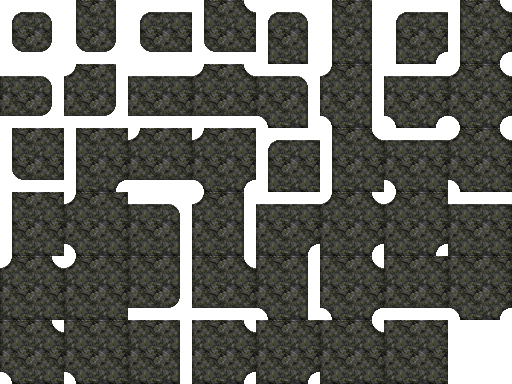
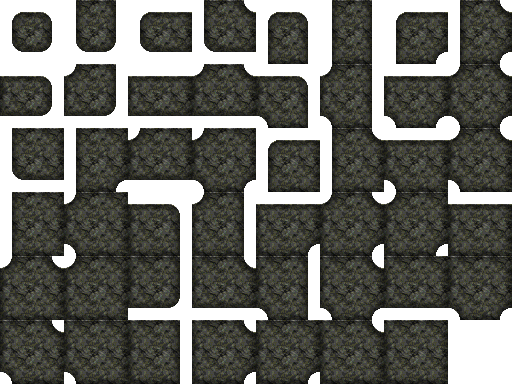
Apply remaining changes

diff --git a/scripts/sprites/terrain-packs/wall-relief.ts b/scripts/sprites/terrain-packs/wall-relief.ts
@@ -1,0 +1,116 @@
+/**
+ * Build four mask-aware wall-face overlays from a pack's own wall material.
+ *
+ * The base blob47 atlas provides topology, but a texture clipped to that shape
+ * can still read as a flat rug. These motifs add authored, directional
+ * highlight/shadow pairs: raised courses, recessed seams, broken ledges and
+ * inset faces. The geometry is deterministic; the colour and grain come from
+ * the pack's real wall material.
+ */
+import { TERRAIN_PACK_CELL_PX } from '../../../src/shared/terrain-pack-types.js';
+import { buildWallAccentAtlas } from './wall-accent-tools.js';
+import { createImage, type RgbaImage } from './png-buffer.js';
+
+export const WALL_RELIEF_IDS = [
+  'raised-course',
+  'recessed-seam',
+  'broken-ledge',
+  'inset-face',
+] as const;
+
+export interface WallReliefAtlas {
+  readonly id: (typeof WALL_RELIEF_IDS)[number];
+  readonly image: RgbaImage;
+}
+
+function clamp8(value: number): number {
+  return Math.max(0, Math.min(255, Math.round(value)));
+}
+
+function sample(material: RgbaImage, x: number, y: number): readonly [number, number, number] {
+  const sx = ((x % material.width) + material.width) % material.width;
+  const sy = ((y % material.height) + material.height) % material.height;
+  const offset = (sy * material.width + sx) * 4;
+  return [
+    material.data[offset] ?? 0,
+    material.data[offset + 1] ?? 0,
+    material.data[offset + 2] ?? 0,
+  ];
+}
+
+/**
+ * A long segmented run keeps the relief natural while still reading as a
+ * coherent wall course. Every variant shifts the joins so adjacent accented
+ * tiles do not repeat the same silhouette.
+ */
+function inSegment(along: number, shift: number): boolean {
+  const local = (along + shift + 64) % 28;
+  return local < 17;
+}
+
+function reliefTone(
+  variant: number,
+  x: number,
+  y: number,
+): { readonly shade: number; readonly opaque: boolean } {
+  const shift = variant * 5;
+
+  const north = y >= 15 && y <= 19 && inSegment(x, shift);
+  const south = y >= 44 && y <= 48 && inSegment(x, shift + 9);
+  const west = x >= 15 && x <= 19 && inSegment(y, shift + 4);
+  const east = x >= 44 && x <= 48 && inSegment(y, shift + 13);
+
+  // Broad central faces are deliberately asymmetric and staggered. They make
+  // most overlay pixels belong to wall interiors rather than merely tracing
+  // the silhouette, which is what creates visible wall-to-floor layering.
+  const upperFace =
+    x >= 5 + variant &&
+    x <= 29 + variant &&
+    y >= 3 + (variant % 2) * 3 &&
+    y <= 11 + (variant % 2) * 3;
+  const middleFace = x >= 23 - variant && x <= 42 + variant && y >= 25 && y <= 39;
+  const lowerFace =
+    x >= 34 - variant &&
+    x <= 59 - variant &&
+    y >= 52 - (variant % 2) * 2 &&
+    y <= 60 - (variant % 2) * 2;
+
+  if (!(north || south || west || east || upperFace || middleFace || lowerFace)) {
+    return { shade: 0, opaque: false };
+  }
+
+  let shade = -18;
+  if (north) shade = y <= 16 ? 38 : -34;
+  else if (south) shade = y <= 45 ? 28 : -42;
+  else if (west) shade = x <= 16 ? 30 : -36;
+  else if (east) shade = x <= 45 ? 22 : -44;
+  else if (upperFace) shade = y <= 5 + (variant % 2) * 3 ? 34 : -20;
+  else if (middleFace) shade = y <= 27 ? 28 : y >= 37 ? -38 : -8;
+  else if (lowerFace) shade = y <= 54 - (variant % 2) * 2 ? 24 : -34;
+
+  // Pixel-scale chipping prevents the broad faces from becoming sterile bars.
+  shade += ((x * 7 + y * 11 + variant * 13) % 9) - 4;
+  return { shade, opaque: true };
+}
+
+export function buildWallReliefAtlases(
+  wallMaterial: RgbaImage,
+  wallAtlas: RgbaImage,
+): readonly WallReliefAtlas[] {
+  return WALL_RELIEF_IDS.map((id, variant) => {
+    const motif = createImage(TERRAIN_PACK_CELL_PX, TERRAIN_PACK_CELL_PX);
+    for (let y = 0; y < TERRAIN_PACK_CELL_PX; y += 1) {
+      for (let x = 0; x < TERRAIN_PACK_CELL_PX; x += 1) {
+        const tone = reliefTone(variant, x, y);
+        if (!tone.opaque) continue;
+        const [r, g, b] = sample(wallMaterial, x + variant * 7, y + variant * 11);
+        const offset = (y * TERRAIN_PACK_CELL_PX + x) * 4;
+        motif.data[offset] = clamp8(r + tone.shade);
+        motif.data[offset + 1] = clamp8(g + tone.shade);
+        motif.data[offset + 2] = clamp8(b + tone.shade);
+        motif.data[offset + 3] = 255;
+      }
+    }
+    return { id, image: buildWallAccentAtlas(motif, wallAtlas) };
+  });
+}

diff --git a/scripts/sprites/terrain-packs/gen/materials.ts b/scripts/sprites/terrain-packs/gen/materials.ts
@@ -9,8 +9,9 @@
  * Prompt rules learned the hard way and encoded here:
  *  - always say "seamless tileable" AND "no border/frame/vignette" — generators
  *    love to add a decorative edge that destroys tiling;
- *  - always say "top-down orthographic, flat even lighting, no cast shadows" —
- *    baked directional light makes neighbouring cells disagree;
+ *  - request raised surface structure while keeping lighting even; directional
+ *    wall-face lighting is applied by the deterministic compositor so seams
+ *    still agree;
  *  - always say "no objects, no props, no text" — a barrel baked into the
  *    material repeats across the whole floor.
  */
@@ -51,8 +52,8 @@ const ACCENT_FLOOR_TILE: MaterialTileOptions = {
 };
 
 const SHARED_STYLE =
-  'seamless tileable texture, top-down orthographic view, flat even lighting, ' +
-  'no cast shadows, no directional highlight, no border, no frame, no vignette, ' +
+  'seamless tileable pixel-art texture, top-down orthographic view with chunky ' +
+  'readable surface relief, even ambient lighting, no cast shadows, no border, no frame, no vignette, ' +
   'no objects, no props, no characters, no text, no watermark, ' +
   'edge-to-edge repeating pattern, muted desaturated palette, dark fantasy dungeon crawler game texture';
 
@@ -75,26 +76,26 @@ export const FLOOR1_DUNGEON_SPEC: PackGenSpec = {
   name: 'Floor 1 Dungeon',
   includeSpecialFloorPools: true,
   wall: {
-    cacheKey: 'floor1-dungeon-wall',
+    cacheKey: 'floor1-dungeon-wall-depth-v2',
     prompt:
       'Ancient mortared dungeon masonry wall of rough-cut grey granite blocks with ' +
-      'crumbling pale mortar joints and faint moss in the cracks. ' +
+      'crumbling pale mortar joints, chipped raised block faces, deep recessed seams, and faint moss in the cracks. ' +
       SHARED_STYLE,
     tile: WALL_TILE,
   },
   floor: {
-    cacheKey: 'floor1-dungeon-floor',
+    cacheKey: 'floor1-dungeon-floor-depth-v2',
     prompt:
       'Worn dungeon flagstone floor of irregular grey-brown paving slabs with ' +
-      'grit-filled seams, small chips and scuff marks. ' +
+      'grit-filled recessed seams, bevelled slab edges, small chips and scuff marks. ' +
       SHARED_STYLE,
     tile: FLOOR_TILE,
   },
   corridor: {
-    cacheKey: 'floor1-dungeon-corridor',
+    cacheKey: 'floor1-dungeon-corridor-depth-v2',
     prompt:
       'Narrow dungeon corridor floor of tightly fitted cold grey stone slabs, ' +
-      'darker and damper than a room floor, with a faint worn walking path. ' +
+      'darker and damper than a room floor, with shallow side gutters and a raised worn walking path. ' +
       SHARED_STYLE,
     tile: FLOOR_TILE,
   },
@@ -104,26 +105,26 @@ export const FLOOR1_CAVE_SPEC: PackGenSpec = {
   id: 'floor1-cave',
   name: 'Floor 1 Cave',
   wall: {
-    cacheKey: 'floor1-cave-wall',
+    cacheKey: 'floor1-cave-wall-depth-v2',
     prompt:
       'Rough natural cave rock wall, jagged unhewn limestone with mineral veining, ' +
-      'pitted and uneven, damp dark stone. ' +
+      'pitted and uneven, with large projecting ledges, deep crevices and damp dark stone. ' +
       SHARED_STYLE,
     tile: WALL_TILE,
   },
   floor: {
-    cacheKey: 'floor1-cave-floor',
+    cacheKey: 'floor1-cave-floor-depth-v2',
     prompt:
       'Damp cave floor of packed earth, loose gravel and scattered small stones, ' +
-      'brown and grey, uneven natural ground. ' +
+      'brown and grey, uneven natural ground with shallow depressions and raised stone edges. ' +
       SHARED_STYLE,
     tile: FLOOR_TILE,
   },
   corridor: {
-    cacheKey: 'floor1-cave-corridor',
+    cacheKey: 'floor1-cave-corridor-depth-v2',
     prompt:
       'Narrow cave passage floor of wet bedrock and fine gravel, darker and ' +
-      'smoother than open cave ground. ' +
+      'smoother than open cave ground, with worn raised bedrock shelves along the passage. ' +
       SHARED_STYLE,
     tile: FLOOR_TILE,
   },

diff --git a/scripts/sprites/terrain-packs/build-companion-overworld.ts b/scripts/sprites/terrain-packs/build-companion-overworld.ts
@@ -39,6 +39,7 @@ import { composeWallAtlas } from './gen/compose-pack.js';
 import { createImage, encodePng, type RgbaImage } from './png-buffer.js';
 import { renderSpeckledSurface, type SurfacePalette } from './procedural-surfaces.js';
 import { deriveAllowedTransforms } from './transform-eligibility.js';
+import { buildWallReliefAtlases } from './wall-relief.js';
 
 export const COMPANION_OVERWORLD_PACK_ID = 'companion-overworld' as const;
 
@@ -95,9 +96,9 @@ const CORRIDOR_PALETTES: readonly SurfaceSpec[] = [
  * shading, so this stays a flat, bright material tile.
  */
 const WALL_PALETTE: SurfacePalette = {
-  base: [138, 142, 116, 255],
-  speckle: [112, 132, 88, 255],
-  speckleDensity: 0.22,
+  base: [150, 154, 116, 255],
+  speckle: [86, 116, 72, 255],
+  speckleDensity: 0.28,
 };
 
 /**
@@ -159,6 +160,15 @@ export function buildCompanionOverworldPack(): CompanionOverworldBuildResult {
   // Durable rebuild input (same convention as industrial-cave/floor1). Not
   // referenced by the manifest — it is a build input, not a runtime asset.
   files.push({ relativePath: `${PACK_DIR}/wall-material.png`, buffer: encodePng(wallTile) });
+  const wallAccents = buildWallReliefAtlases(wallTile, atlas).map(({ id, image }) => {
+    const relPath = `${PACK_DIR}/accent-${id}.png`;
+    files.push({ relativePath: relPath, buffer: encodePng(image) });
+    return {
+      id,
+      imagePath: relPath,
+      textureKey: `terrain-pack-${COMPANION_OVERWORLD_PACK_ID}-accent-${id}`,
+    };
+  });
 
   // --- Floor / corridor pools ----------------------------------------------
   function buildPool(kind: 'floor' | 'corridor', specs: readonly SurfaceSpec[]) {
@@ -205,7 +215,9 @@ export function buildCompanionOverworldPack(): CompanionOverworldBuildResult {
         'SeededRandom, and composed onto the canonical 20-quadrant blob47 wall silhouettes via ' +
         'composeWallAtlas (scripts/sprites/terrain-packs/gen/compose-pack.ts). Fully ' +
         'reproducible and byte-identical: run `npm run terrain-packs:build`. Palette is a ' +
-        'bright sunlit grass/dirt overworld for the Floor 3 Companion League brief. Pools are ' +
+        'bright sunlit grass/dirt overworld for the Floor 3 Companion League brief. Four ' +
+        'deterministic mask-aware raised-face overlays add visible wall ledges and recessed ' +
+        'courses instead of a flat top-down rock stamp. Pools are ' +
         'weighted 10:8:1x6 (grass base : quiet grass : sparse detail) so ground reads as ' +
         'continuous grassland with occasional punctuation rather than a uniform patchwork.',
     },
@@ -217,6 +229,7 @@ export function buildCompanionOverworldPack(): CompanionOverworldBuildResult {
       gridRows: ATLAS_GRID_ROWS,
       masks: masks.map(({ maskId, frameIndex }) => ({ maskId, frameIndex })),
     },
+    wallAccents,
     floorPool,
     corridorPool,
   };

diff --git a/tests/unit/sprites/terrain-pack-committed.test.ts b/tests/unit/sprites/terrain-pack-committed.test.ts
@@ -690,28 +690,34 @@ describe('validateTerrainDepthAndPerspective', () => {
     expect(result.issues).toHaveLength(0);
   });
 
-  it('Floor 1 (floor1-dungeon, floor1-cave) fails the depth check for flat top-down tiles', () => {
+  it('Floor 1 (floor1-dungeon, floor1-cave) passes the depth check with regenerated wall relief', () => {
     for (const id of ['floor1-dungeon', 'floor1-cave'] as const) {
       const pack = getTerrainPack(id);
+      const accentAtlases = pack.wallAccents!.map((accent) =>
+        decodePng(readFileSync(path.join(repoRoot(), 'public', accent.imagePath))),
+      );
       const result = validateTerrainDepthAndPerspective(
         pack,
         decodePng(readFileSync(path.join(repoRoot(), 'public', pack.wallAutotile.imagePath))),
-        [],
+        accentAtlases,
       );
-      expect(result.ok).toBe(false);
-      expect(result.issues.some((i) => i.code === 'terrain-pack-lacks-depth')).toBe(true);
+      expect(result.ok).toBe(true);
+      expect(result.issues).toHaveLength(0);
     }
   });
 
-  it('Floor 3 (companion-overworld) fails the depth check for flat top-down tiles', () => {
+  it('Floor 3 (companion-overworld) passes the depth check with regenerated wall relief', () => {
     const pack = getTerrainPack('companion-overworld');
+    const accentAtlases = pack.wallAccents!.map((accent) =>
+      decodePng(readFileSync(path.join(repoRoot(), 'public', accent.imagePath))),
+    );
     const result = validateTerrainDepthAndPerspective(
       pack,
       decodePng(readFileSync(path.join(repoRoot(), 'public', pack.wallAutotile.imagePath))),
-      [],
+      accentAtlases,
     );
-    expect(result.ok).toBe(false);
-    expect(result.issues.some((i) => i.code === 'terrain-pack-lacks-depth')).toBe(true);
+    expect(result.ok).toBe(true);
+    expect(result.issues).toHaveLength(0);
   });
 
   it('rejects a declared accent whose pixels are a flat fill', () => {

diff --git a/scripts/sprites/terrain-packs/gen/compose-pack.ts b/scripts/sprites/terrain-packs/gen/compose-pack.ts
@@ -34,6 +34,7 @@ import {
   toMaterialTile,
   type MaterialTileOptions,
 } from './image-ops.js';
+import { buildWallReliefAtlases } from '../wall-relief.js';
 
 export interface PackOutputFile {
   readonly relativePath: string;
@@ -43,7 +44,7 @@ export interface PackOutputFile {
 export type WallMaskFrameAssignment = { readonly maskId: number; readonly frameIndex: number };
 
 /** How far in from a silhouette boundary the wall darkening reaches. */
-const WALL_RIM = { rimPx: 3, rimDarken: 0.35, topLift: 0.5 } as const;
+const WALL_RIM = { rimPx: 7, rimDarken: 0.52, topLift: 0.72 } as const;
 
 /**
  * Cut a raw material into 4 quadrants and turn each into an independent
@@ -142,6 +143,16 @@ export function composePack(input: ComposePackInput): ComposePackResult {
   // reason.
   files.push({ relativePath: `${packDir}/wall-material.png`, buffer: encodePng(input.wallTile) });
 
+  const wallAccents = buildWallReliefAtlases(input.wallTile, atlas).map(({ id, image }) => {
+    const relPath = `${packDir}/accent-${id}.png`;
+    files.push({ relativePath: relPath, buffer: encodePng(image) });
+    return {
+      id,
+      imagePath: relPath,
+      textureKey: `terrain-pack-${input.id}-accent-${id}`,
+    };
+  });
+
   const buildPool = (
     kind: string,
     variants: readonly RgbaImage[],
@@ -180,6 +191,7 @@ export function composePack(input: ComposePackInput): ComposePackResult {
       gridRows: ATLAS_GRID_ROWS,
       masks,
     },
+    wallAccents,
     floorPool,
     corridorPool,
     ...(Object.keys(specialFloorPools).length > 0
